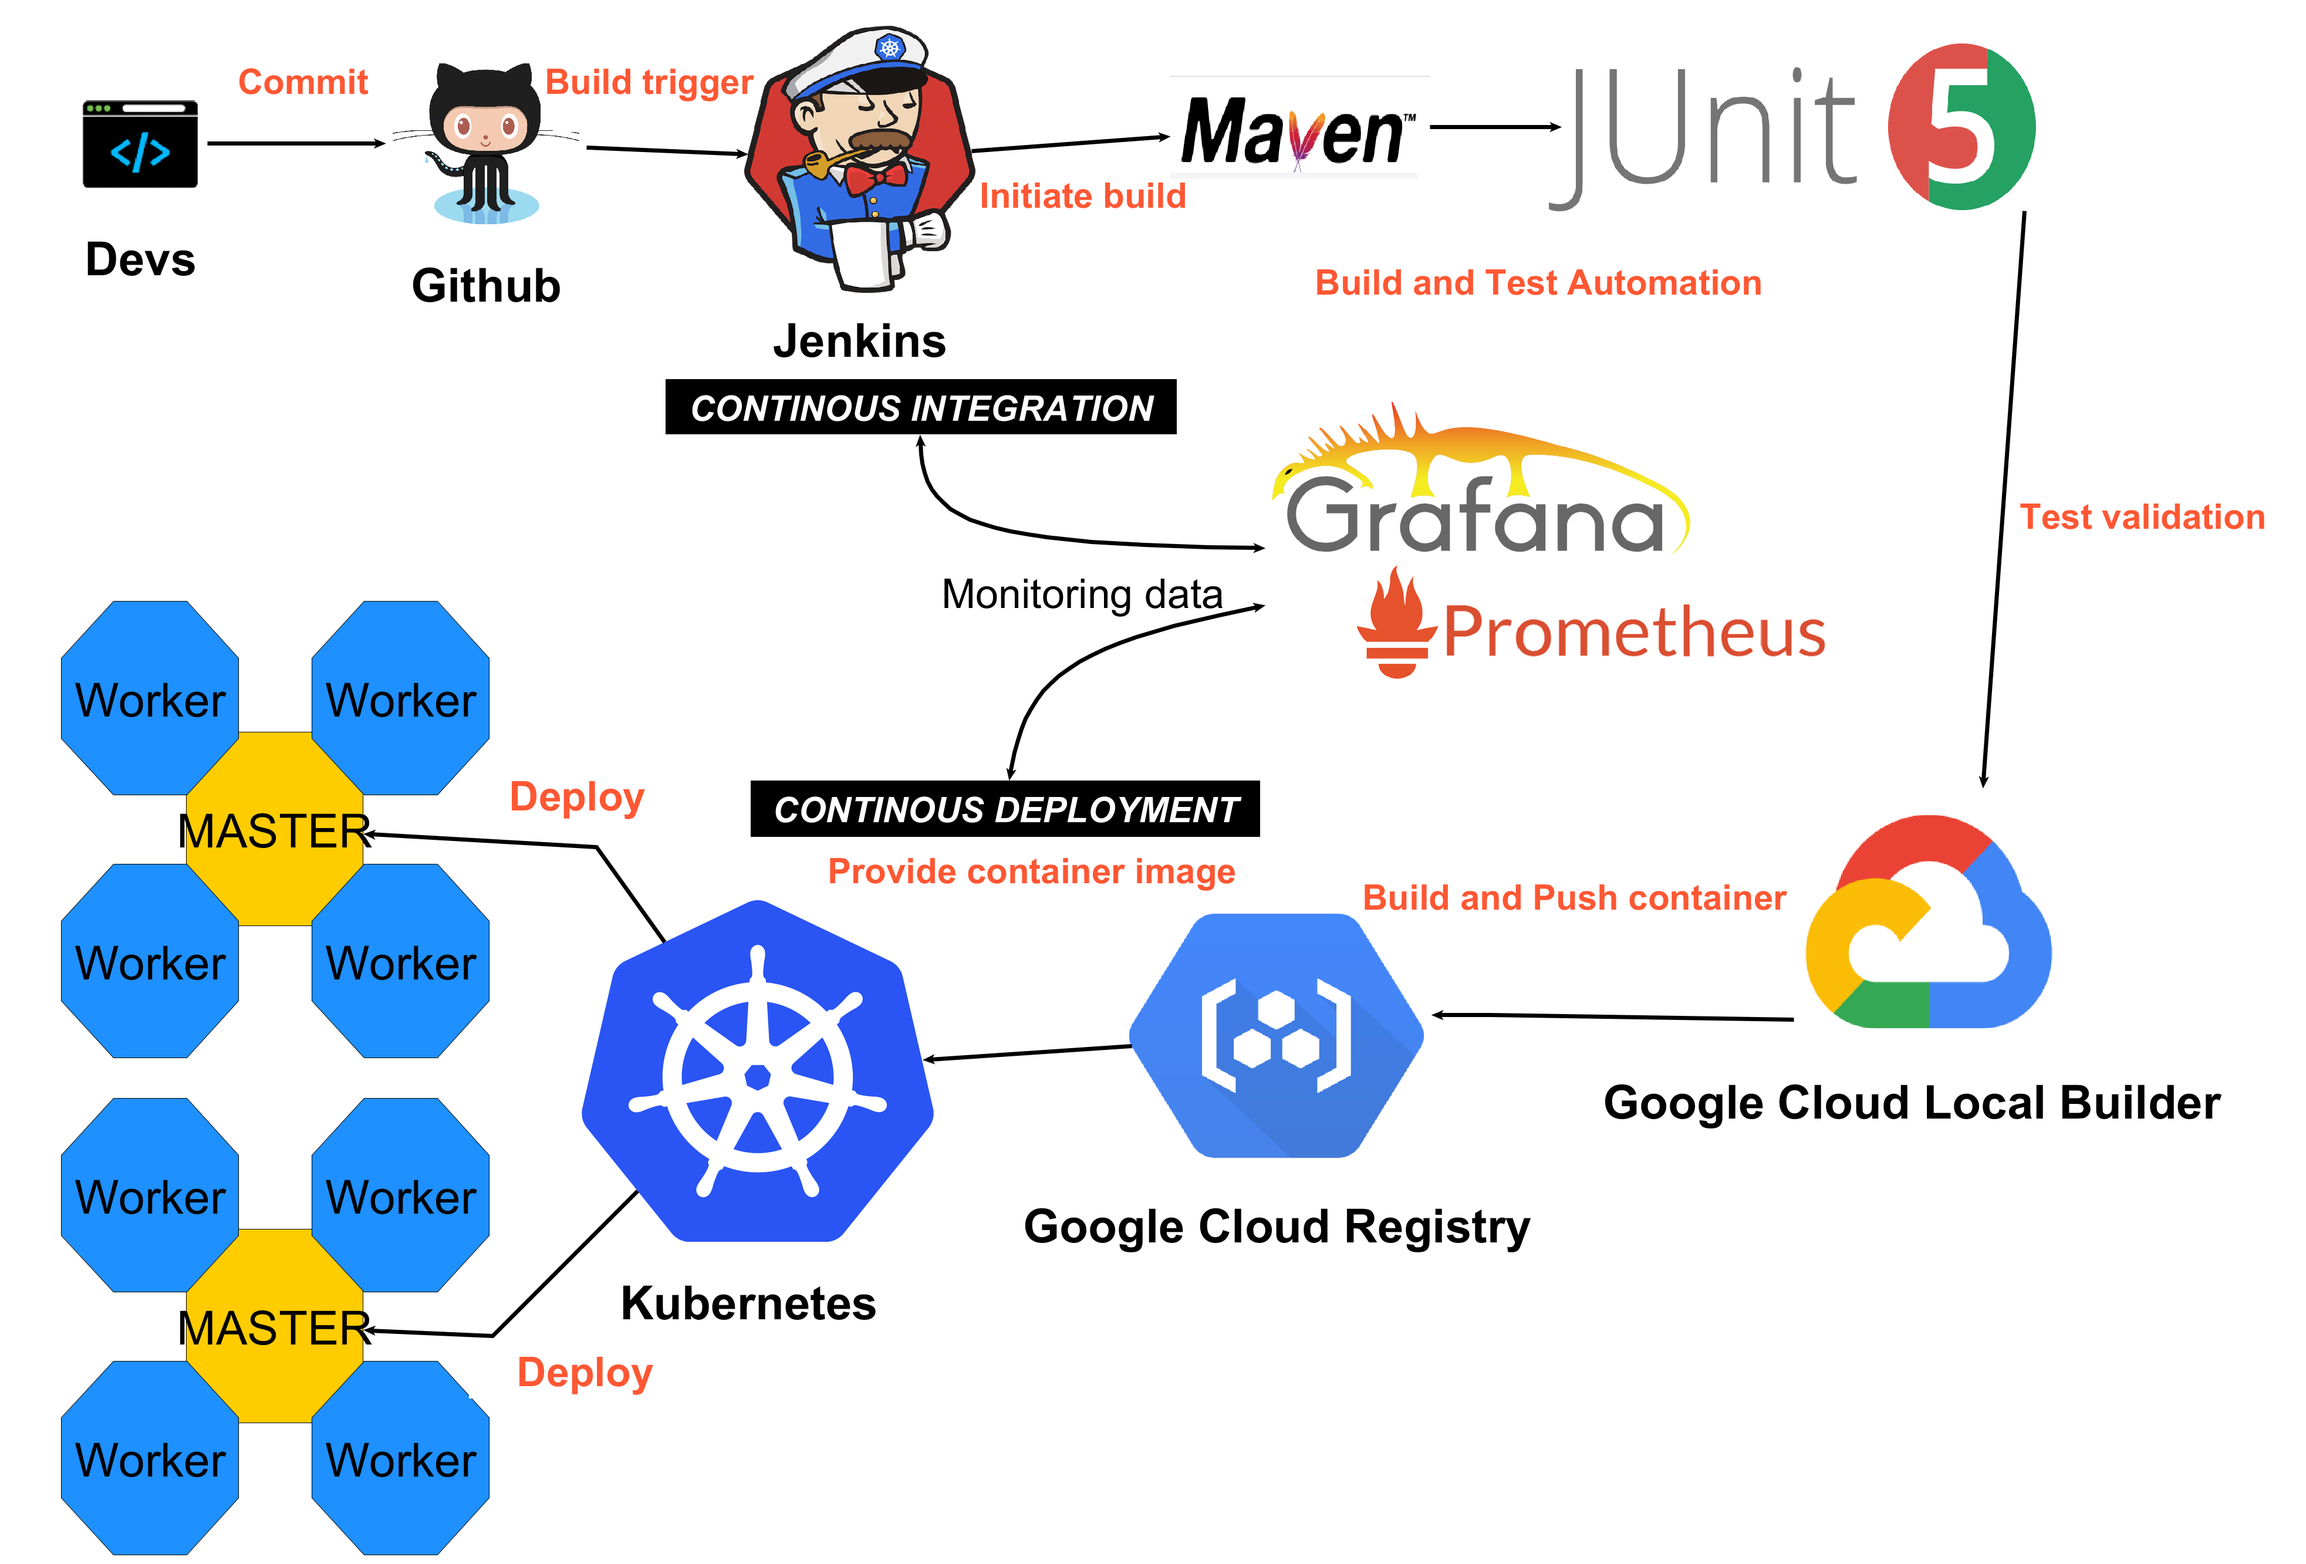
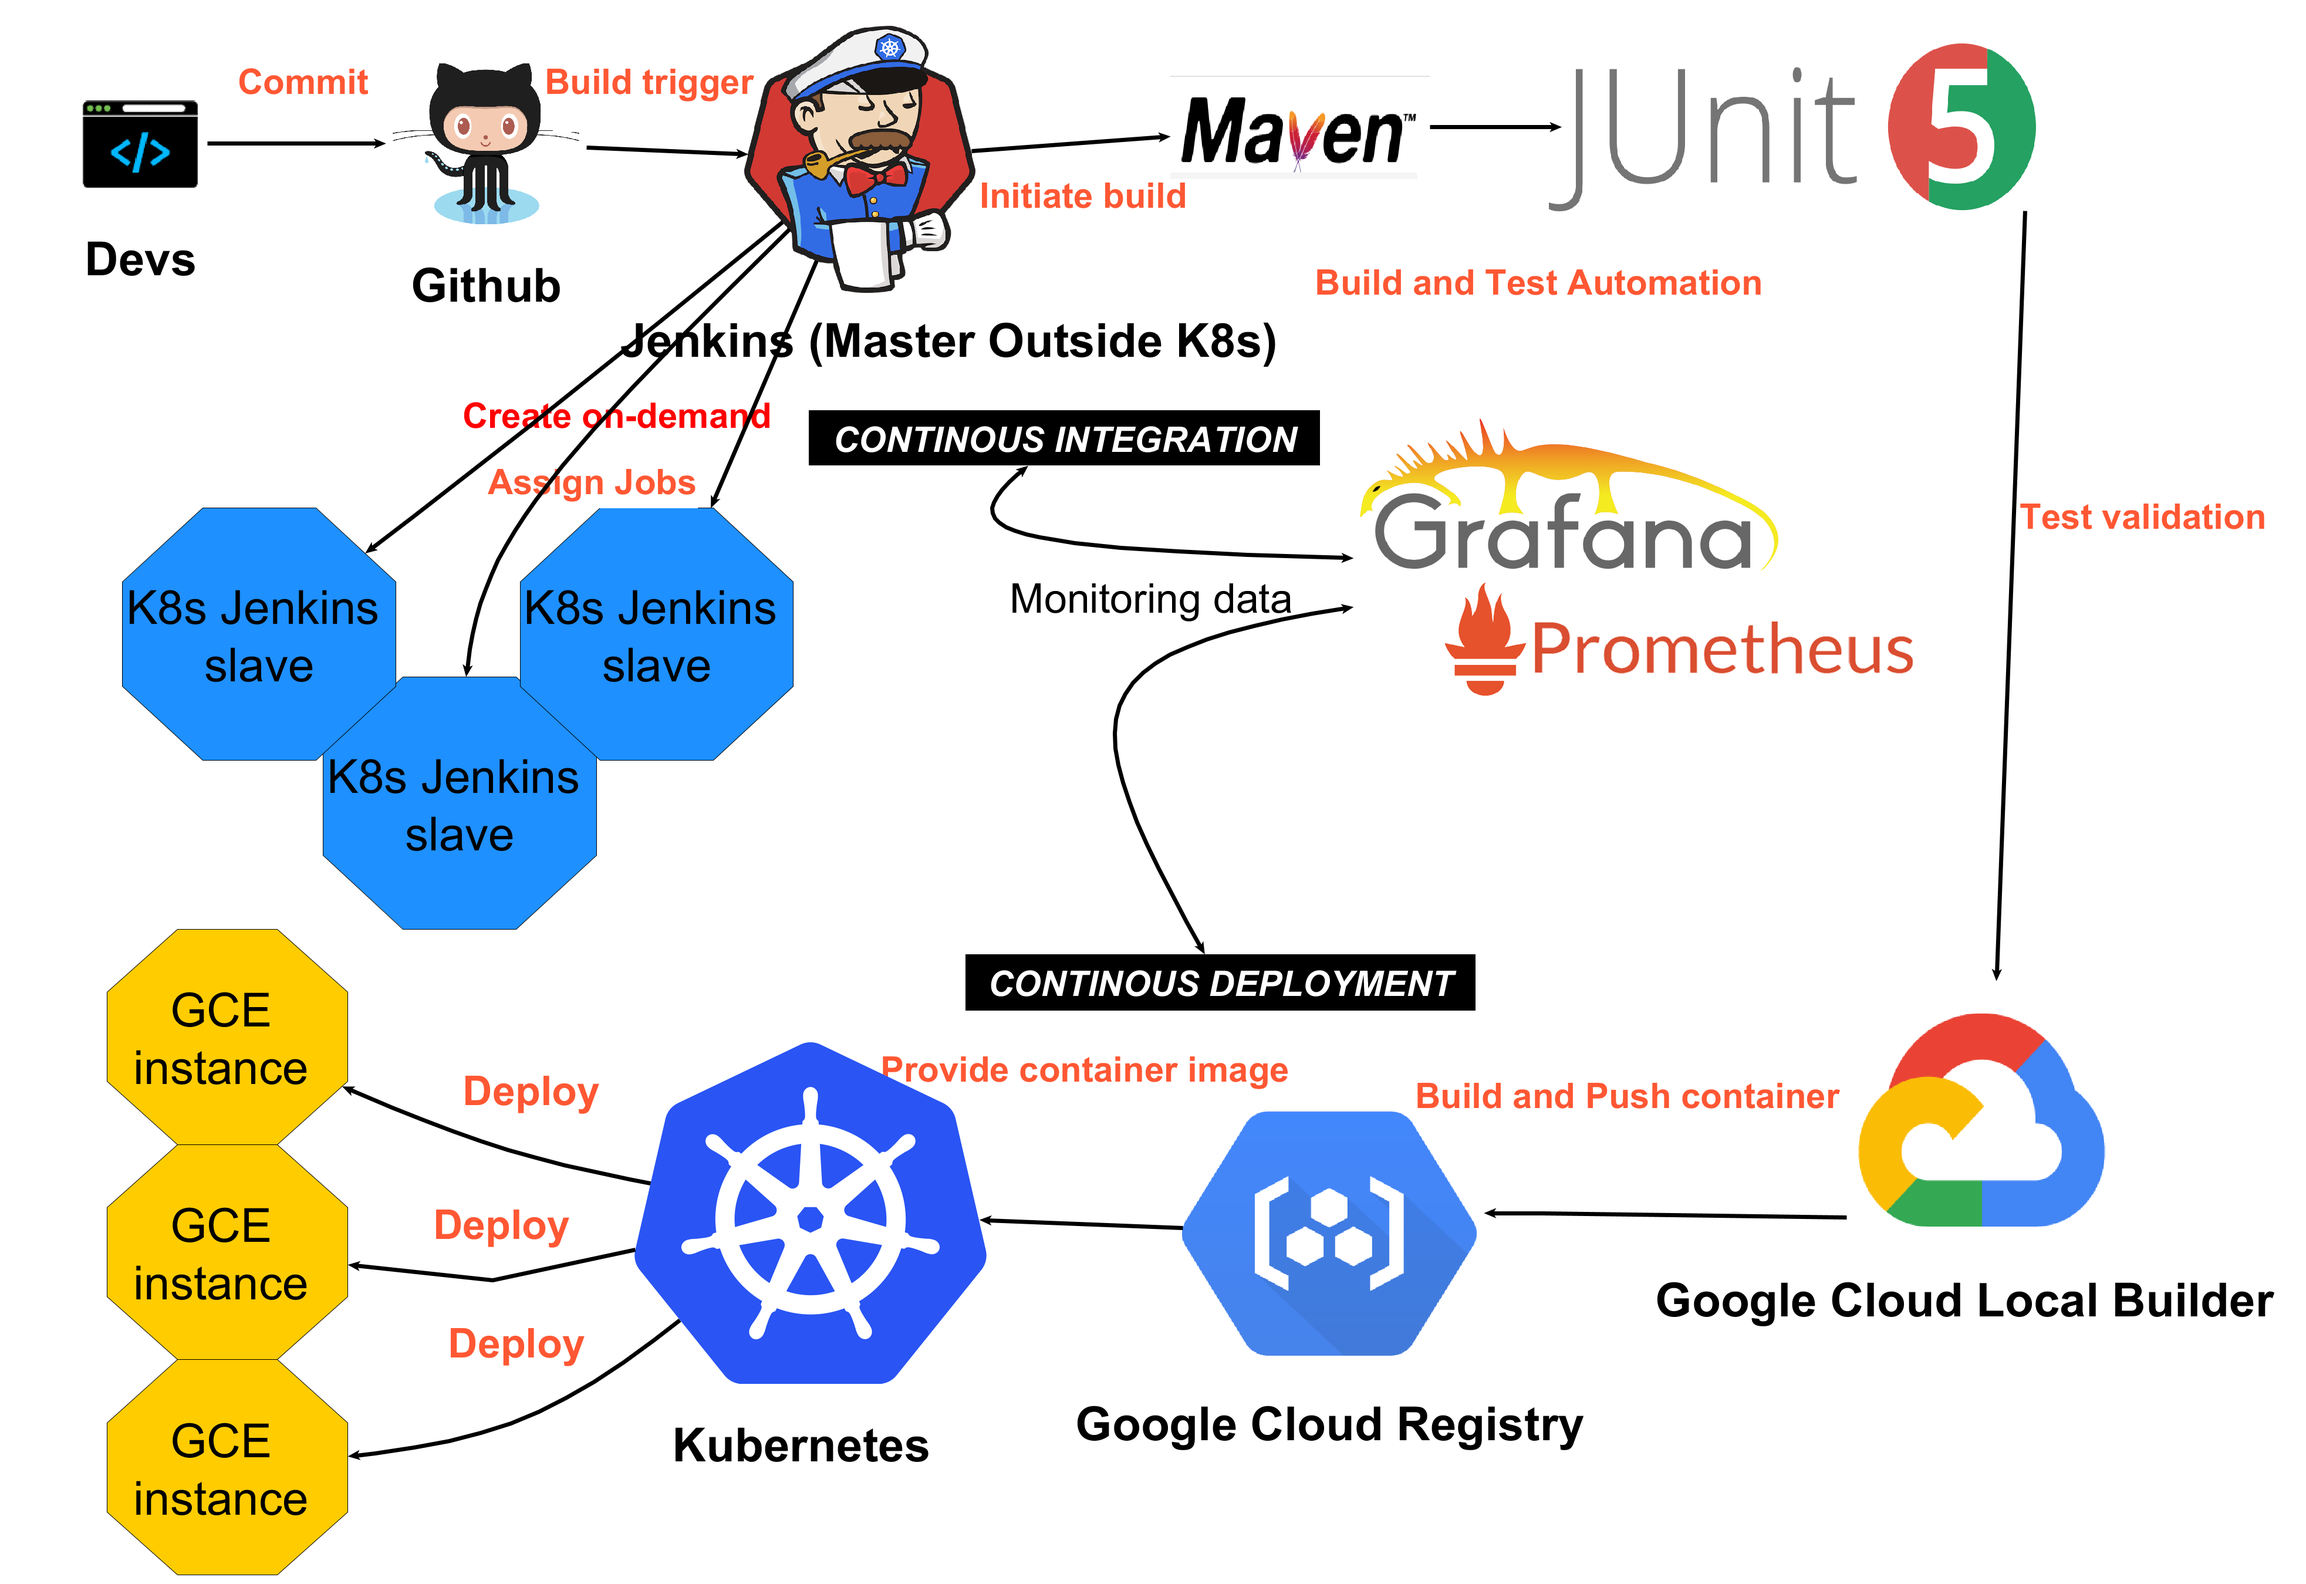
[Open project] Fix: Update design of CI/CD pipeline and readme (#156)
* Fix: update design

* Doc: Update readme for description

* Fix: fix readme

* Fix: fix readme

* Fix: gramma fix

* Fix: grammar fixes

* Fix: more text fixes

* Fix: grammar...

* Fix: grammar fix

* Fix: recontruct some sentences

* Fix: remove some words

* Fix: add some words

diff --git a/contributions/open/tailp-parumita/Readme.md b/contributions/open/tailp-parumita/Readme.md
@@ -1,10 +1,17 @@
+##Course task proposal form
 Opentask: CI, CD pipeline design with Kubernetes
 
 Members: Henry Luong and Saha parumita
 
 Task: We want to try setting up a pipeline using Jenkins(CI with Maven and Junit), Prometheus&Grafana(Monitoring), Google cloud builder plugin & Google cloud registry(build and push containers) and Kubernetes(Orchestration). 
 
-Our application for deployment and instruction for setting up the pipeline is in this [repo](https://github.com/Tailp/CI)  
+IMPORTANT!! Our application for deployment and instruction for setting up the pipeline is in this [repo](https://github.com/Tailp/CI)  
+## Description & idea presentation
+Our idea is to create a Jenkins CI/CD pipeline with the aim of minizing the budget cost of deploying to Kubernetes. While there are many guides and good information out there in the internet about setting up a Jenkins master inside the cluster together with slave virtual machine, there are still very little and also fragmented information about a setup of CI/CD pipeline for smooth deployments from Jenkins outside the cluster. 
+
+While it's easy and well supported by Google to set up Jenkins inside the cluster on first sight, the cost of maintaining the cluster hosting the pipeline is not a small sum for companies like small start-ups or personal project, not to mention that your pipeline is deployed under the premise of immutability of pods, which means there are certain risks like for instance the configuration might be gone or some parts of it are missing due to K8s update or deletes of pods(either manually or out of budget on Google account) which in turn might induce some hard-to-crack bugs or in worst case re-setting up the entire pipeline. I do admit there are some work-around when it comes to retaining the pods configuration, but do keep in mind that these work-around violate the fundamental concept of pods. Therefore the safest choice is to keep the entire pipeline running all the time and this creates another problem which is money, since Google tax cost per minut per GCE instance running. 
+
+In summary we want something for a pipeline which is decently functional but low cost and little dependency of K8s when deploying and our  approach to this is to set up the Jenkins master outside for jobs executions, while the Jenkins slave virtual machines(GCE instances), are created only when it's demanded from the Master Jenkins. The slaves function just like a normal Jenkins slave and will automatically be removed after a period of inactivities. This way both the costs and risks for the pipeline will be minimized, also this might also be an attractive solution for those who already have Jenkins outside the cluster, since a pipeline migration into the cluster might be quite painful.
 
 ![Pipeline](CI-CDdesign.png)
 
